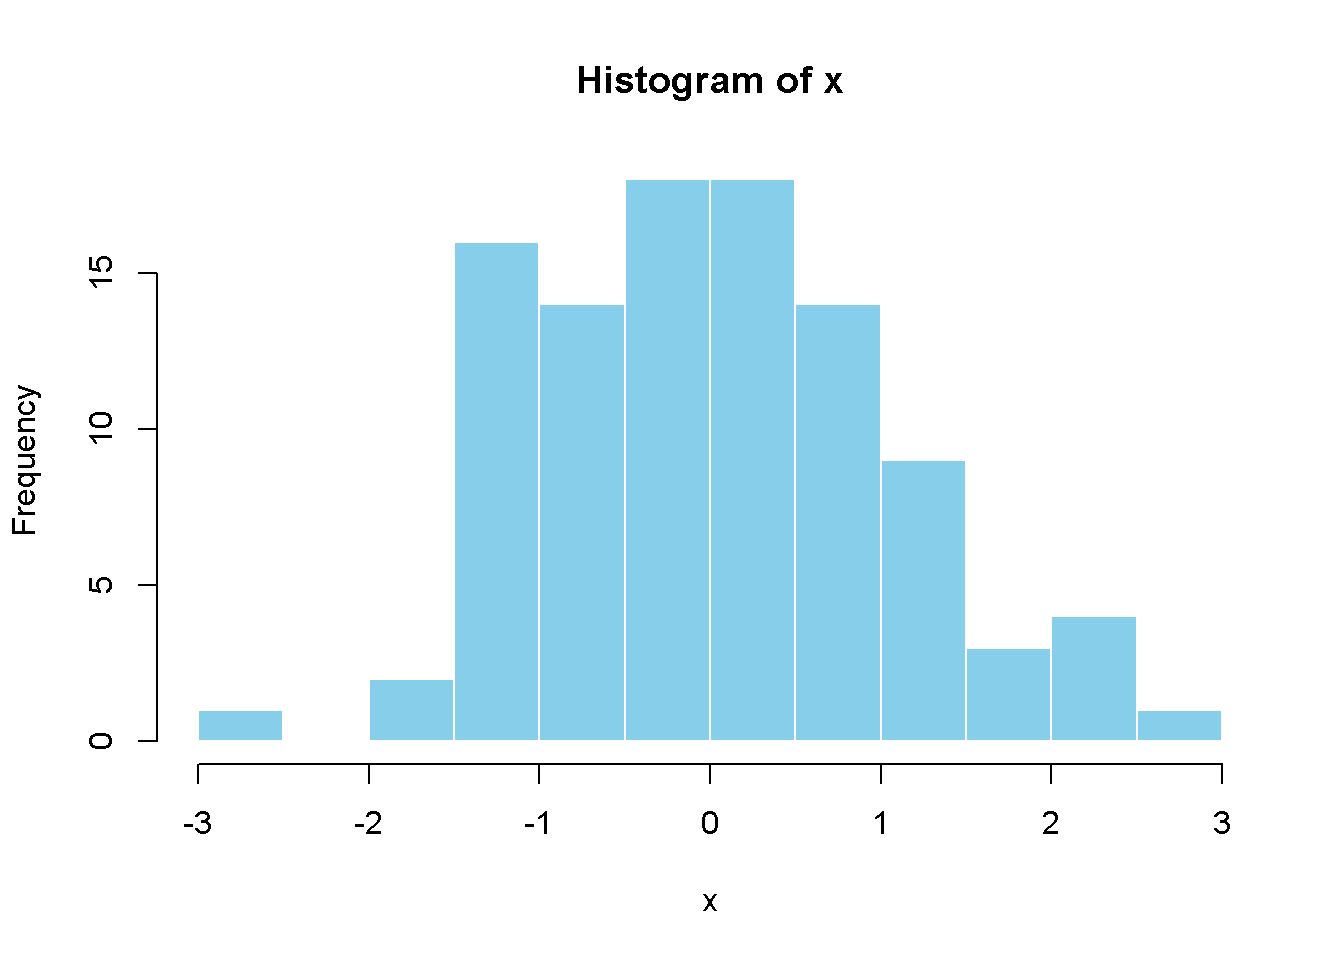
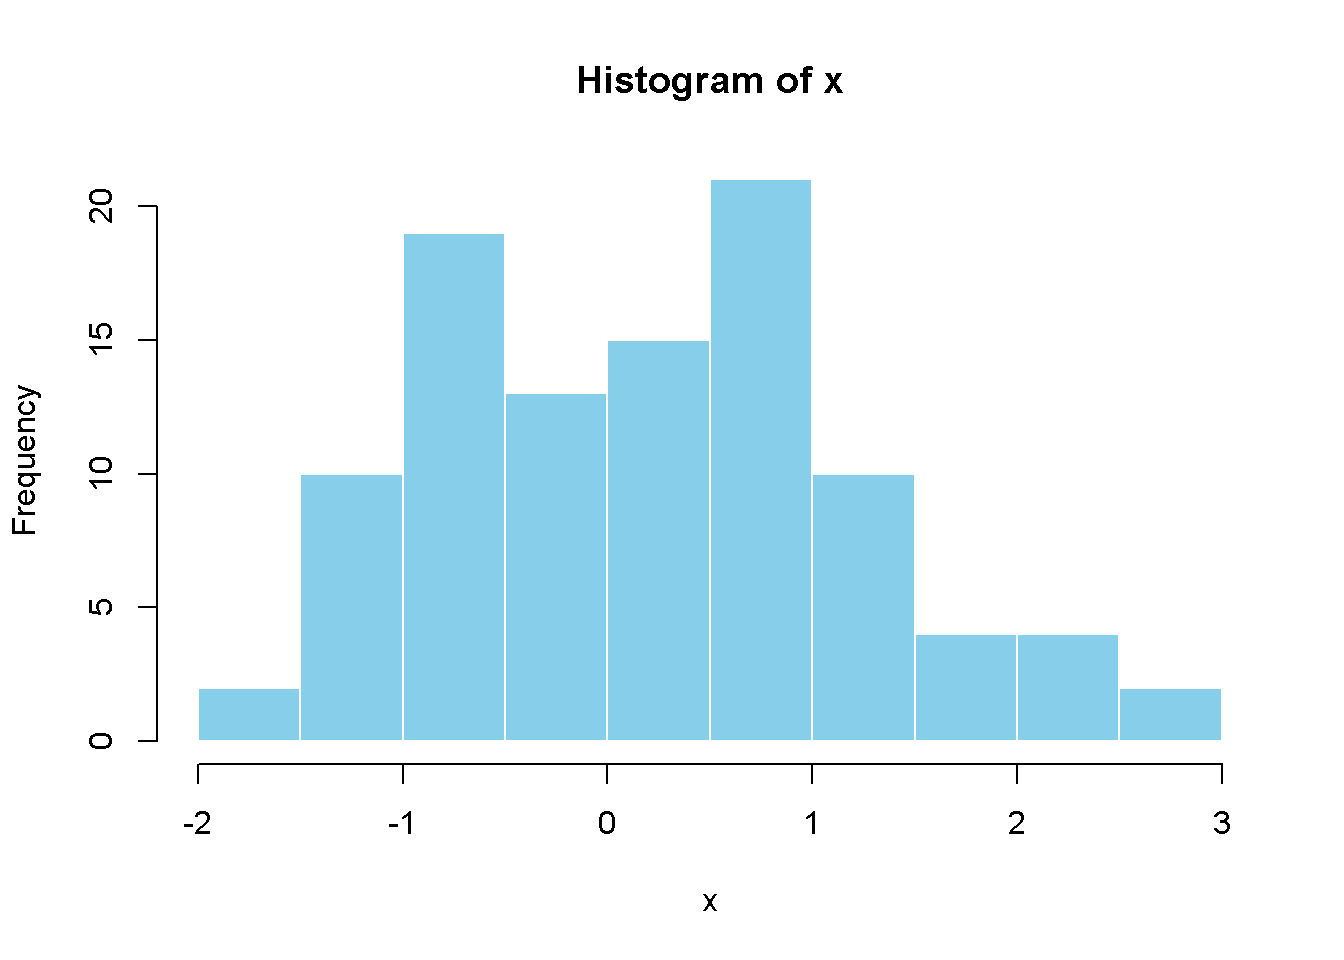
new notebook

diff --git a/docs/topics/r_lesson.html b/docs/topics/r_lesson.html
@@ -172,15 +172,16 @@ pre > code.sourceCode > span > a:first-child::before { text-decoration: underlin
 <section id="r-intro-to-remote-sensing" class="level1">
 <h1>R: Intro to Remote Sensing</h1>
 <p>This lesson presents a basic R script for analyzing data.</p>
-<p><a href="https://mybinder.org/v2/gh/vojta-bartak/quarto_example/master?urlpath=lab/tree/notebooks/r_analysis.ipynb">Launch in Binder</a> <a href="../notebooks/intro_r.R">Download R Script</a></p>
+<p><a href="https://mybinder.org/v2/gh/vojta-bartak/quarto_example/master?urlpath=lab/tree/notebooks/r_analysis.ipynb">Launch in Binder</a></p>
+<p><a href="../notebooks/intro_r.R">Download R Script</a></p>
 <div class="cell">
 <div class="cell">
 <div class="sourceCode cell-code" id="cb1"><pre class="sourceCode r code-with-copy"><code class="sourceCode r"><span id="cb1-1"><a href="#cb1-1" aria-hidden="true" tabindex="-1"></a><span class="co"># Generate 100 random numbers from normal distribution</span></span>
 <span id="cb1-2"><a href="#cb1-2" aria-hidden="true" tabindex="-1"></a>x <span class="ot">&lt;-</span> <span class="fu">rnorm</span>(<span class="dv">100</span>)</span>
 <span id="cb1-3"><a href="#cb1-3" aria-hidden="true" tabindex="-1"></a><span class="fu">summary</span>(x)</span></code><button title="Copy to Clipboard" class="code-copy-button"><i class="bi"></i></button></pre></div>
 <div class="cell-output cell-output-stdout">
-<pre><code>    Min.  1st Qu.   Median     Mean  3rd Qu.     Max. 
--2.66486 -0.79909 -0.00526  0.03334  0.85453  2.51486 </code></pre>
+<pre><code>   Min. 1st Qu.  Median    Mean 3rd Qu.    Max. 
+-1.7552 -0.6228  0.2942  0.1945  0.8530  2.6224 </code></pre>
 </div>
 <div class="sourceCode cell-code" id="cb3"><pre class="sourceCode r code-with-copy"><code class="sourceCode r"><span id="cb3-1"><a href="#cb3-1" aria-hidden="true" tabindex="-1"></a><span class="co"># Plot histogram</span></span>
 <span id="cb3-2"><a href="#cb3-2" aria-hidden="true" tabindex="-1"></a><span class="fu">hist</span>(x, <span class="at">main =</span> <span class="st">"Histogram of x"</span>, <span class="at">col =</span> <span class="st">"skyblue"</span>, <span class="at">border =</span> <span class="st">"white"</span>)</span></code><button title="Copy to Clipboard" class="code-copy-button"><i class="bi"></i></button></pre></div>
